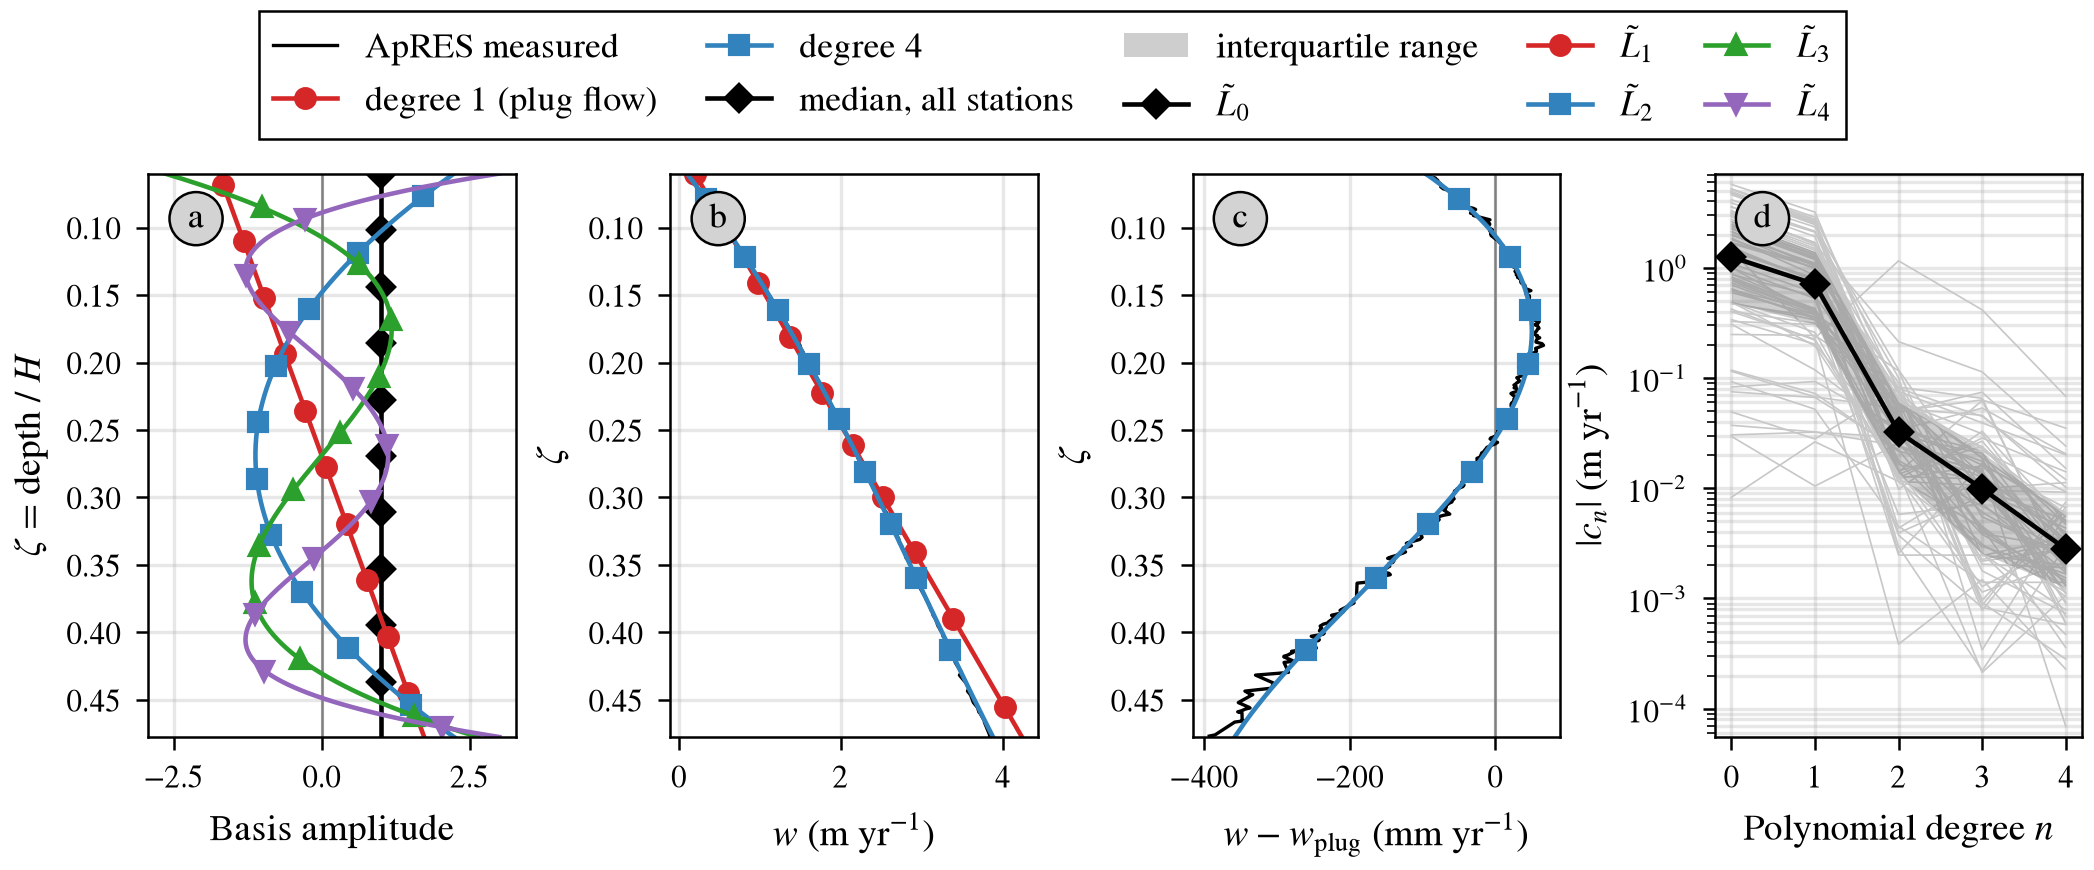
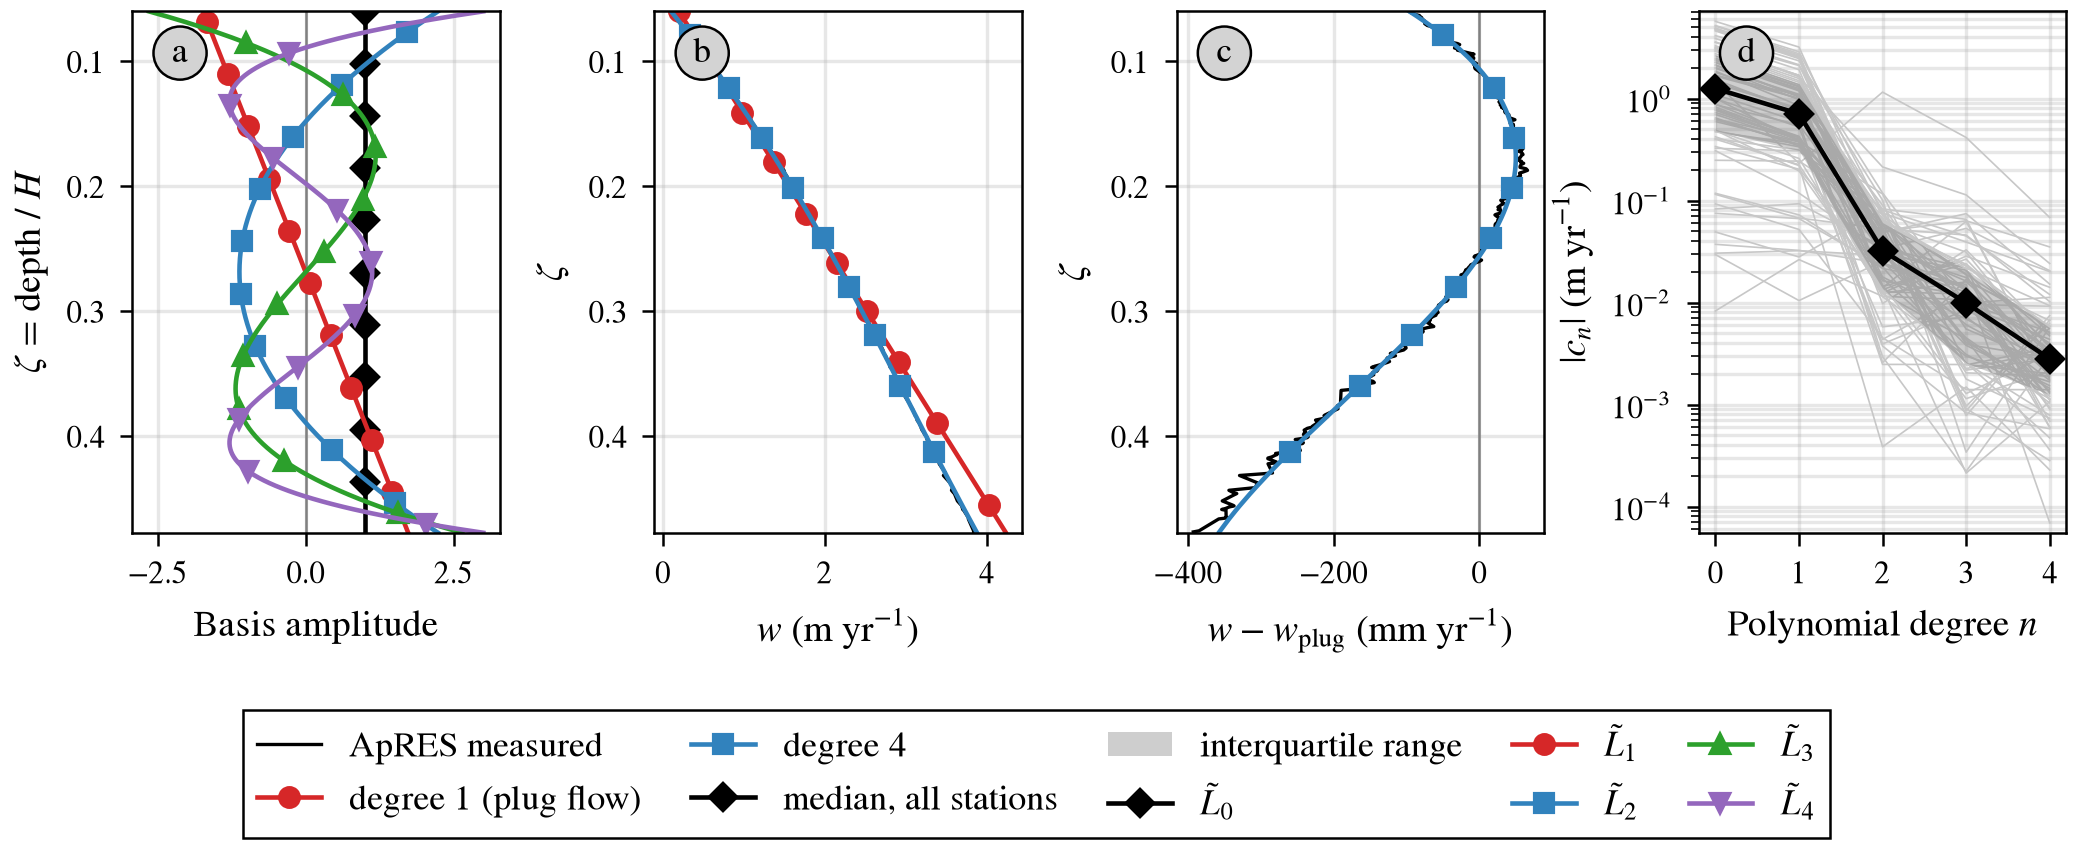
Move the Fig. 3 (fig05_legendre) legend below the panels
style.bottom_legend is the counterpart of figstyle.top_legend.

diff --git a/scripts/figures/fig05_legendre.py b/scripts/figures/fig05_legendre.py
@@ -77,7 +77,7 @@ def main() -> None:
 
     fig, axs = plt.subplots(
         1, 4, figsize=(style.TWO_COL, 0.40 * style.TWO_COL),
-        gridspec_kw={"wspace": 0.42, "top": 0.82, "bottom": 0.15,
+        gridspec_kw={"wspace": 0.42, "top": 0.96, "bottom": 0.34,
                      "left": 0.07, "right": 0.99},
     )
     for ax in axs:
@@ -177,8 +177,9 @@ def main() -> None:
         a.margins(y=0.02)
         style.panel_letter(a, letter, x=0.13, y=0.92)
 
-    style.top_legend(
-        fig, [h_meas, h_plug, h_full, h_med, h_iqr, *basis_handles], ncol=5, y=0.84,
+    # Below the panels, clear of their x labels.
+    style.bottom_legend(
+        fig, [h_meas, h_plug, h_full, h_med, h_iqr, *basis_handles], ncol=5, y=0.15,
     )
 
     print(f"example site: {site} at {row['distance_km']:.1f} km, "
